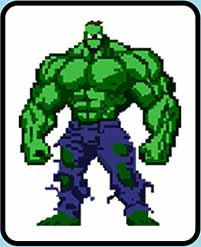
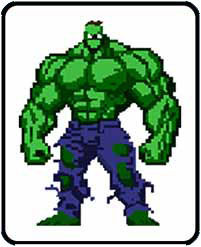
Background is implemented, and assests are updated so they show up better.

Changed region(s): [[0.0, 0.0, 1.0, 1.0], [0.597, 0.5668, 0.6269, 0.5951]]

diff --git a/src/Screens/PlayLevelScreen.java b/src/Screens/PlayLevelScreen.java
@@ -15,6 +15,7 @@ import Level.HealthBarSprite;
 import Level.Map;
 import Level.Player;
 import Level.PlayerListener;
+import Maps.PlayLevelMap;
 import Maps.TestMap;
 import SpriteFont.SpriteFont;
 import Utils.Direction;
@@ -45,6 +46,8 @@ public class PlayLevelScreen extends Screen implements PlayerListener {
     private int select2;
     private String player1Selected;
     private String player2Selected;
+
+    protected PlayLevelMap background;
 
     public PlayLevelScreen(ScreenCoordinator screenCoordinator) {
         this.screenCoordinator = screenCoordinator;
@@ -118,6 +121,11 @@ public class PlayLevelScreen extends Screen implements PlayerListener {
         playerTwoText.setFontStyle(Font.BOLD);
         playerTwoText.setOutlineColor(Color.black);
 
+        //Making the backgroun picture for the play level screen.
+        //PlayLevelMap class holds the actaul image we are using here.
+        background = new PlayLevelMap("backgroundDark.jpeg");
+        background.setAdjustCamera(false);        
+
         //New Healthbar work:
         this.healthBar1 = new HealthBarSprite(new SpriteSheet(ImageLoader.load("HealthSheet.png", Color.black), 32, 8), 225, 10, "DEFAULT", player.getPlayerHealth(), player);
         this.healthBar2 = new HealthBarSprite(new SpriteSheet(ImageLoader.load("HealthSheet.png", Color.black), 32, 8), 400, 10, "DEFAULT", player2.getPlayerHealth(), player2);
@@ -171,6 +179,7 @@ public class PlayLevelScreen extends Screen implements PlayerListener {
         // based on screen state, draw appropriate graphics
         switch (playLevelScreenState) {
             case RUNNING:
+                background.draw(graphicsHandler);
                 map.draw(graphicsHandler);
                 player.draw(graphicsHandler);
                 playerOneText.draw(graphicsHandler);

diff --git a/src/Screens/CharacterSelectScreen.java b/src/Screens/CharacterSelectScreen.java
@@ -5,8 +5,6 @@ import Game.GameState;
 import Game.ScreenCoordinator;
 import GameObject.Sprite;
 
-import Level.Map;
-import Maps.CharacterMap;
 import SpriteFont.SpriteFont;
 
 import java.awt.*;
@@ -43,7 +41,7 @@ public class CharacterSelectScreen extends Screen {
     protected Sprite c2;
     protected Sprite c3;
     protected Sprite c4;
-    protected Map background;
+    protected Sprite background;
     protected int pointerLocationX, pointerLocationY;
     protected boolean playerPressedStart1 = false;
     protected boolean playerPressedStart2 = false;
@@ -202,9 +200,7 @@ public class CharacterSelectScreen extends Screen {
         line = new Sprite(ImageLoader.load("LINEb.jpg"));
         line.setHeight(line.getHeight()+100);
         line.setLocation(line.getX() + 372, line.getY());
-        // Background
-        background = new CharacterMap();
-        background.setAdjustCamera(false);
+        background = new Sprite(ImageLoader.load("White.jpg"));
         menuItemSelectedL = -1;
         menuItemSelectedR = -1;
         keyLocker.lockKey(Key.SPACE);
@@ -213,7 +209,7 @@ public class CharacterSelectScreen extends Screen {
 
     public void update() {
         // update background map (to play tile animations)
-        background.update(null);
+        //background.update(null);
 
         // if keys are pressed, change menu item "hovered" over
         if(Keyboard.isKeyDown(Key.S)){

diff --git a/src/Maps/PlayLevelMap.java b/src/Maps/PlayLevelMap.java
@@ -1,0 +1,32 @@
+package Maps;
+
+import Engine.GraphicsHandler;
+import Engine.ImageLoader;
+import GameObject.Sprite;
+import Level.Map;
+import Tilesets.CommonTileset;
+
+// Represents the map that is used as a background for the playable game screen.  To change background
+//simply change the image that corresponds to 'map' in the PlayLevelScreen class (line 126 'background object')
+public class PlayLevelMap extends Map {
+
+    // private Sprite cat, cat2;
+    private Sprite background;
+
+    public PlayLevelMap(String map) {
+        super("title_screen_map.txt", new CommonTileset());
+
+        background = new Sprite(ImageLoader.load(map));
+        background.setWidth(90);
+        background.setHeight(65);
+        background.setScale(9);
+        background.setLocation(background.getX()-25, background.getY());
+    }
+
+    @Override
+    public void draw(GraphicsHandler graphicsHandler) {
+        super.draw(graphicsHandler);
+        background.draw(graphicsHandler);
+    }
+
+}

diff --git a/src/Tilesets/CommonTileset.java b/src/Tilesets/CommonTileset.java
@@ -15,7 +15,8 @@ import java.util.ArrayList;
 public class CommonTileset extends Tileset {
 
     public CommonTileset() {
-        super(ImageLoader.load("CommonTileset(2).png"), 16, 16, 3);
+        super(ImageLoader.load("CommonTileset(3).png"), 16, 16, 3);
+        //super(ImageLoader.load("White.jpg"), 16, 16, 3);
     }
 
     @Override
